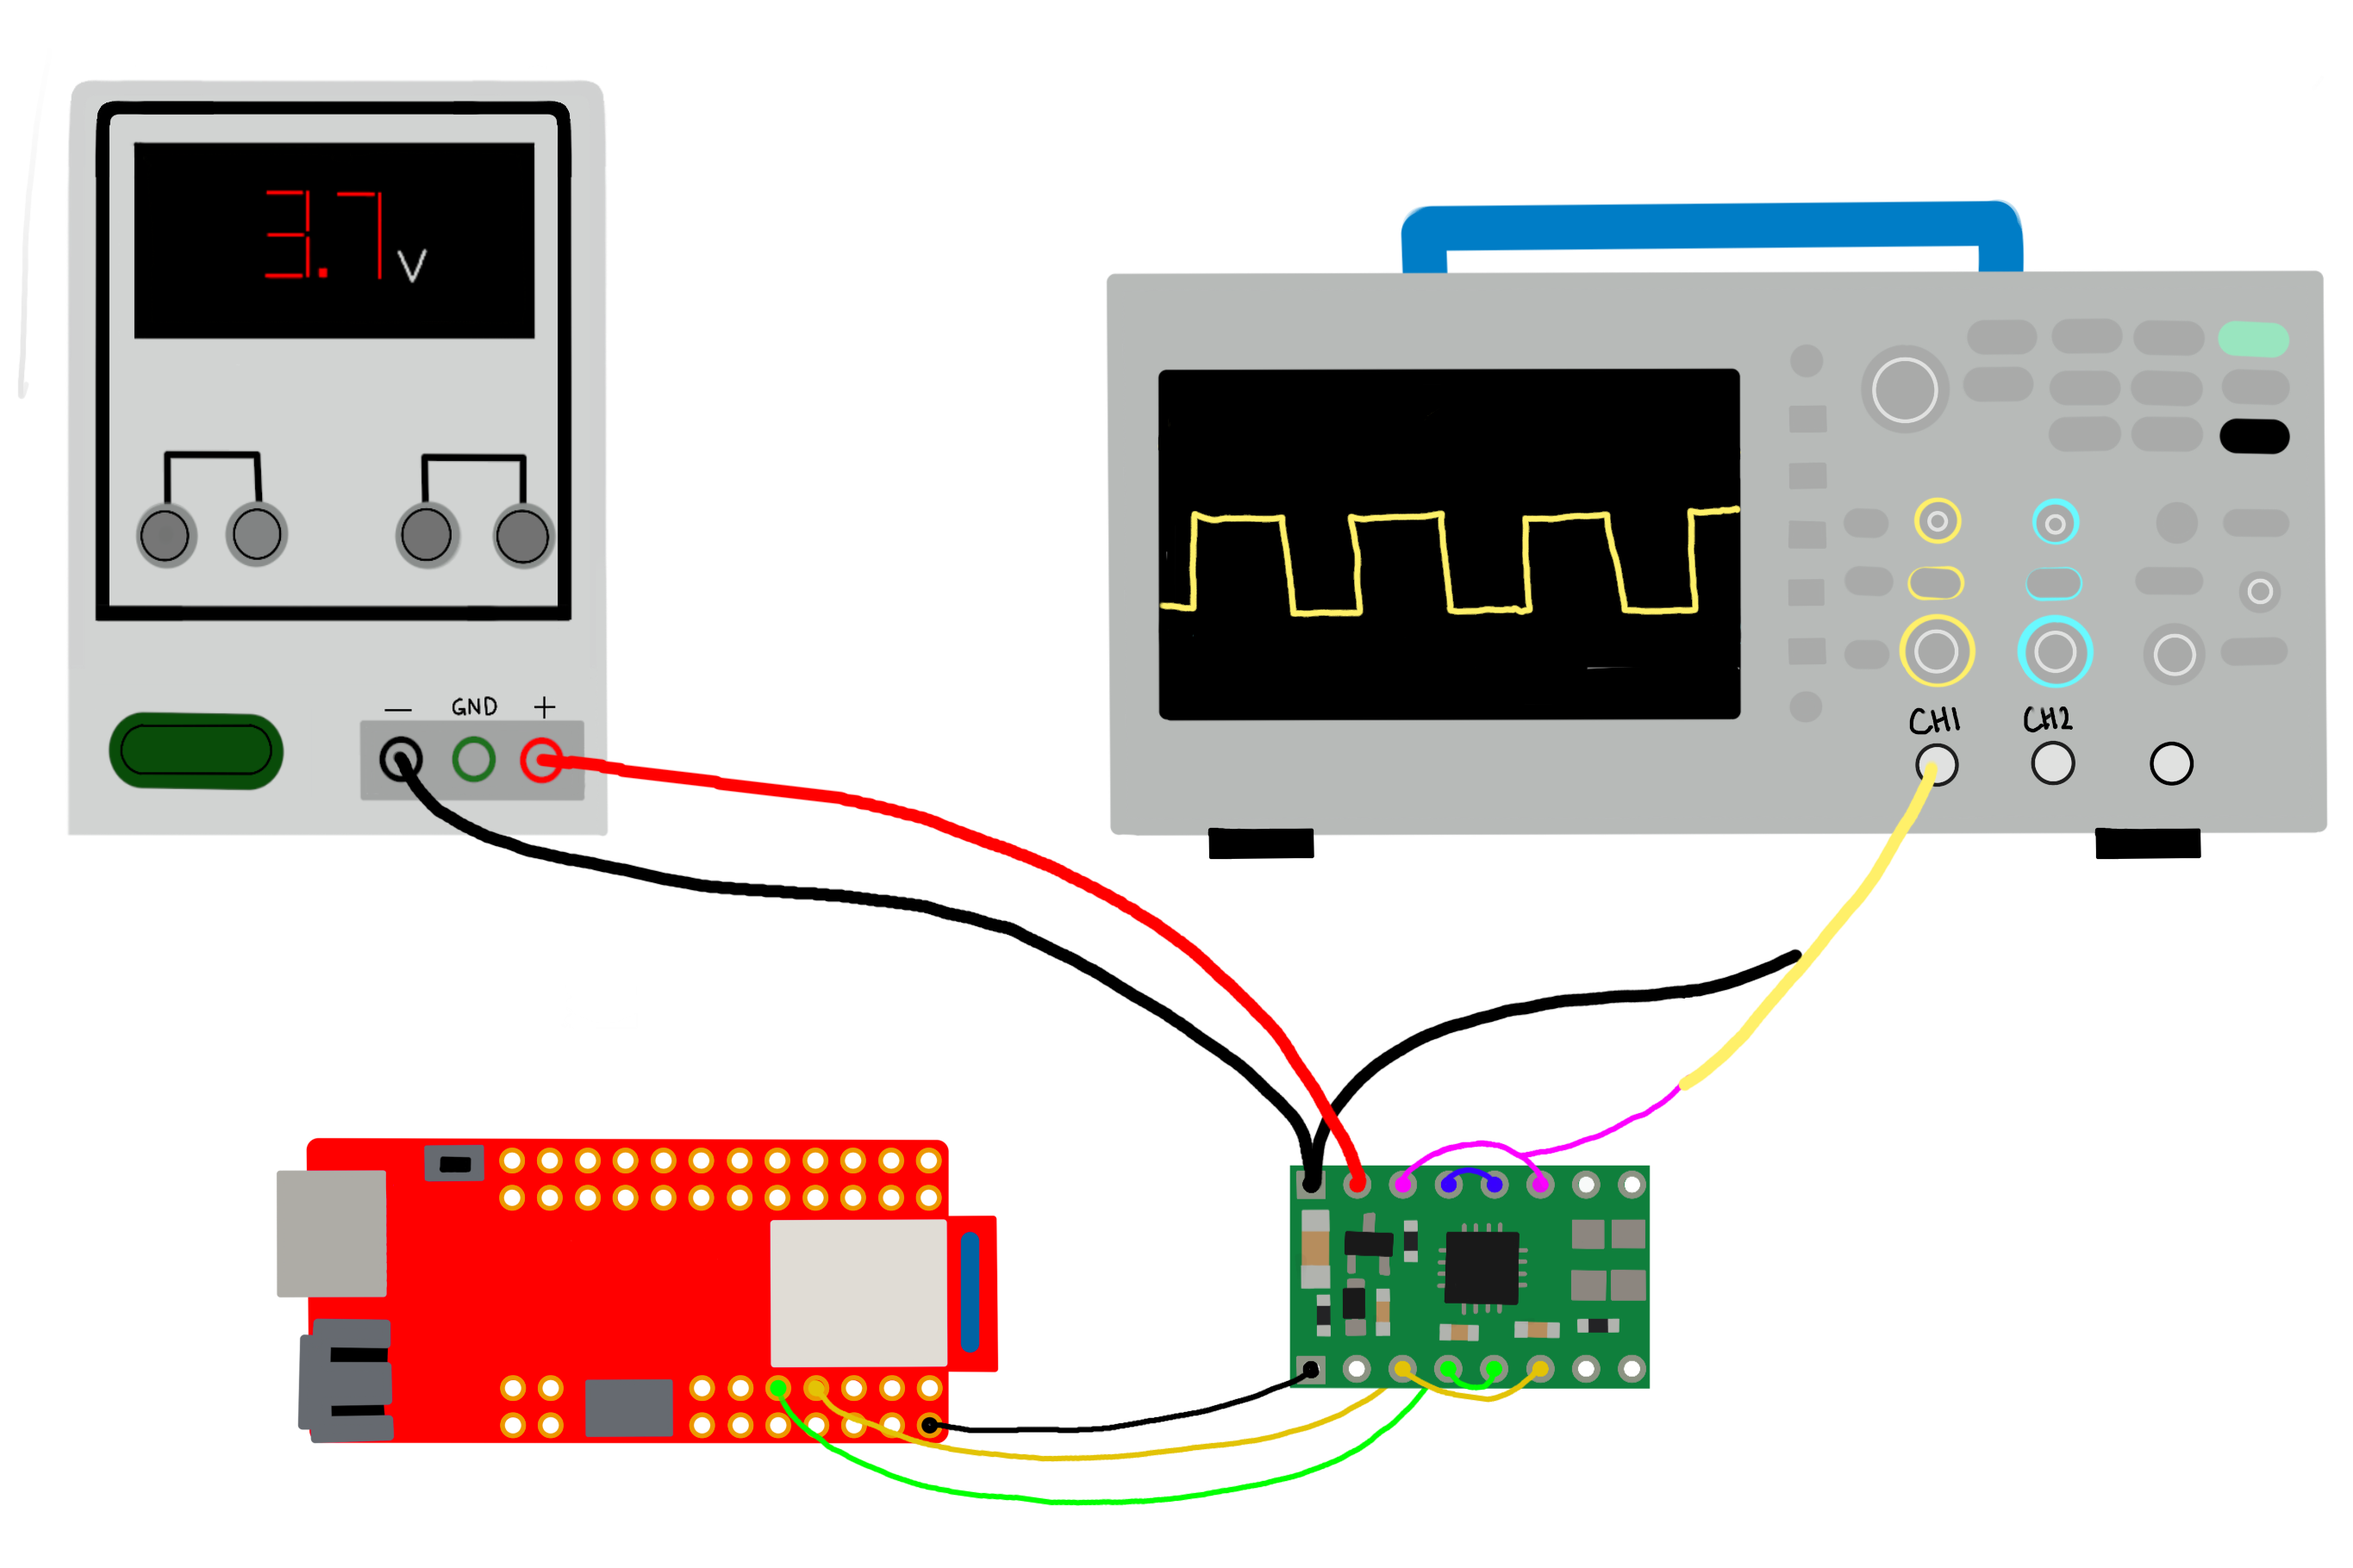
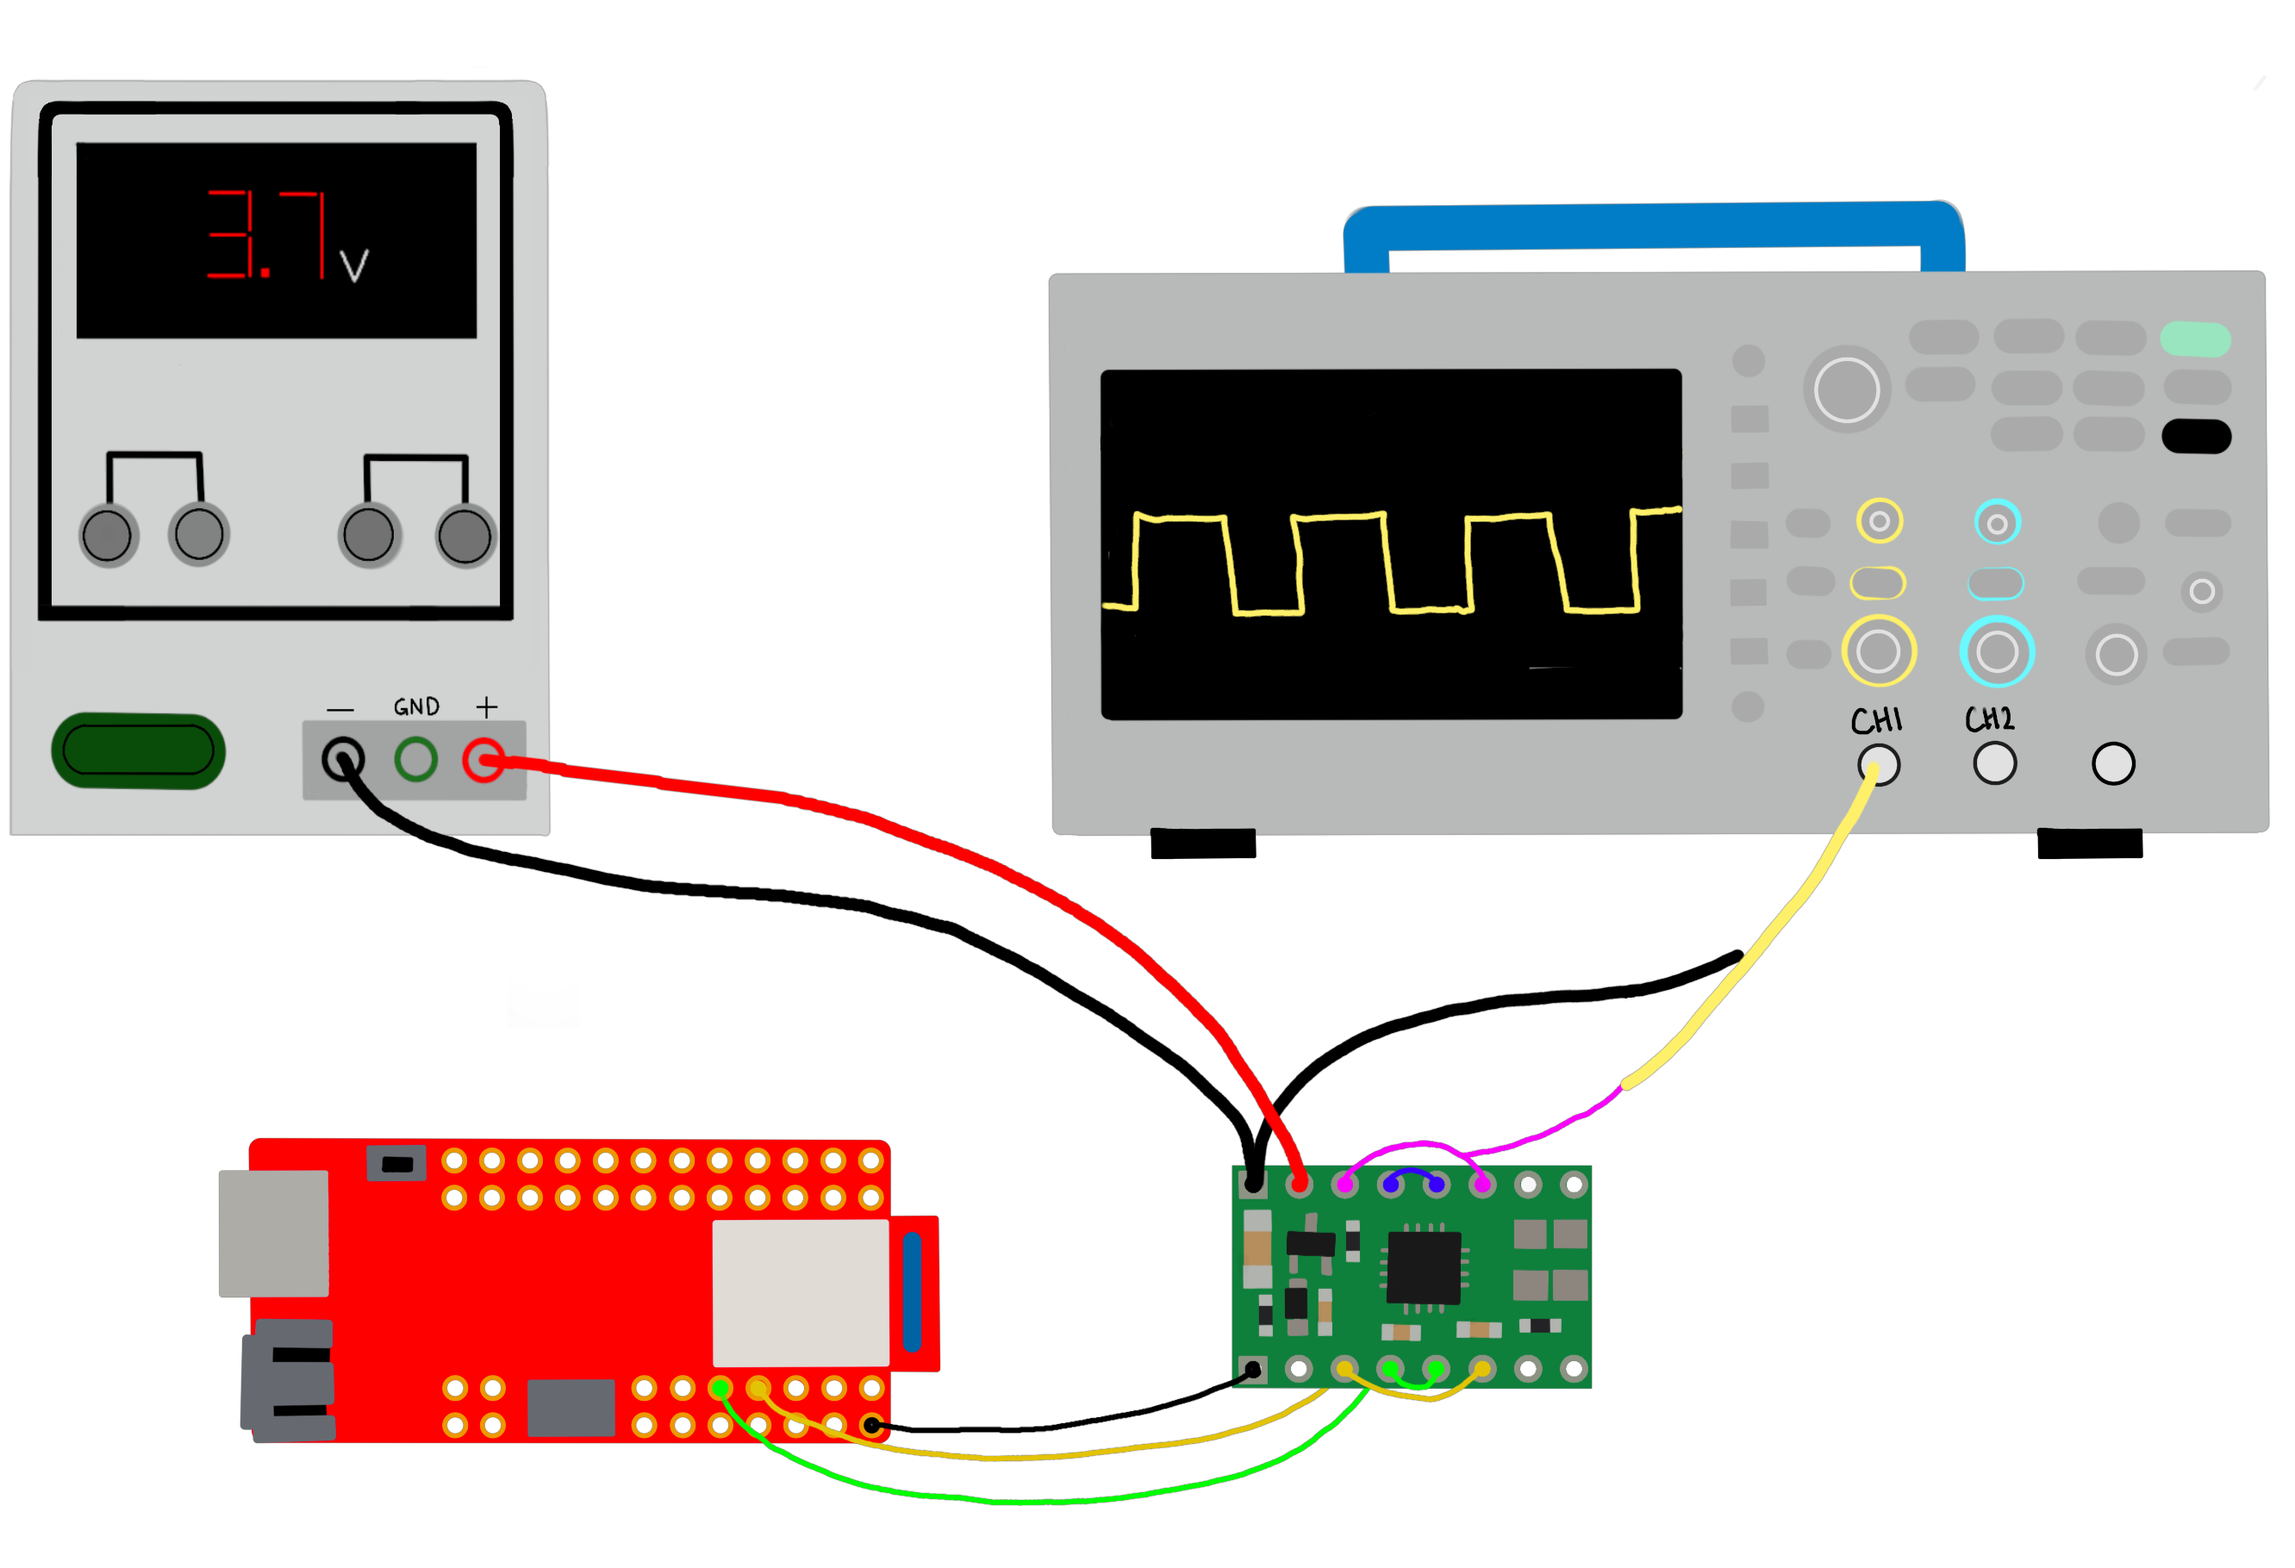
lab5 media

diff --git a/Lab5.html b/Lab5.html
@@ -90,31 +90,61 @@
         <div class="resume-section-content">
             <h2 class="mb-2">Lab 5 <span class="text-primary">Motors and Open Loop Control</span></h2>
             <p class="mb-5">
-                The goal of this lab was to setup the motor drivers, install everything on the car, and demonstrate open loop control. 
+                The goal of this lab was to setup the motor drivers, install everything on the car, and demonstrate open
+                loop control.
             </p>
 
 
             <div class="d-flex flex-column flex-md-row justify-content-between mb-5">
                 <div class="flex-grow-1">
-                    <h3 class="mb-0">Motor Driver Hookup</h3>
-                    <p>Text.</p>
-                    <img src="assets/img/lab5driverhookup.png" alt="" title="" height="400px" />
-                    
+                    <h3 class="mb-2">Prelab</h3>
+                    <h4 class="mb-0">Motor Driver Hookup</h4>
+                    <p>
+                        I read through the datasheet for the motor driver and understood the pin functions. The motor
+                        drivers have two inputs and outputs which will be coupled together in order to deliver enough
+                        current to the motor. So, a single dual controller will power a single motor.
+                    </p>
+                    <p>
+                        Knowing that all the GPIO pins on the Artemis are PWM capable, I decided to use pins A2, A3, 4,
+                        and A5 as the inputs to the drivers as they are on the same side as the pin I soldered for the
+                        TOF sensor which would save space when installing it in the car. I soldered as shown in the
+                        diagram using stranded wire and heat shrink. I also twisted cables to reduce EMI. I used the car
+                        as a rough reference to determine the optimal length of the wires. I decided to solder all
+                        connections so that they were secure as the car moved and bumped around.
+                    </p>
+                    <img class="mb-5" src="assets/img/lab5driverhookup.png" alt="" title="" height="400px" />
+
+                    <h4 class="mb-0">Battery</h4>
+                    <p>
+                        The motors and the Artemis are powered by different batteries of the same voltage. This serves
+                        to reduce noise from the motors affecting the sensors. Additionally, the current draw of the
+                        motors is much higher than the Artemis so it is best practice to separate the power paths.
+                    </p>
+
                 </div>
             </div>
 
-            <div class="d-flex flex-column flex-md-row justify-content-between mb-5">
-                <div class="flex-grow-1">
-                    <h3 class="mb-0">Battery</h3>
-                    <p>Text.</p>
-                </div>
-            </div>
 
             <div class="d-flex flex-column flex-md-row justify-content-between mb-5">
                 <div class="flex-grow-1">
                     <h3 class="mb-0">PWM Signal</h3>
-                    <p>Text.</p>
+                    <p>
+                        I then connected the driver to the power supply and oscilloscope as shown in order to monitor
+                        the PWM output from the motor driver.
+                    </p>
                     <img src="assets/img/lab5scopehookup.png" alt="" title="" height="400px" />
+                    <p>
+                        I set the power supply to 3.7V as that is within the drivers input range and is the nominal
+                        voltage of the battery we will be using. I set the current limit to 3A as that is slightly
+                        higher
+                        than the nominal output voltage but under the peak.
+                    </p>
+                    <p>
+                        I then used an idea from Robby Huang’s (2022) page to test every PWM output from 0-255. I
+                        uploaded this code to the Artemis and observed the scope output. I repeated this for both output
+                        channels.
+                    </p>
+                    <script src="https://gist.github.com/bhadrab/8718f5c9dea16f1c64d324bd8527a4ea.js"></script>
                     <video width="500" controls>
                         <source src="assets/img/lab5scope.mp4" type=video/mp4>
                     </video>
@@ -124,17 +154,35 @@
             <div class="d-flex flex-column flex-md-row justify-content-between mb-5">
                 <div class="flex-grow-1">
                     <h3 class="mb-0">Running the Motor</h3>
-                    <p>Text.</p>
-                    <video height="400" controls>
+                    <p>
+                        I then took the top shell off the car and got rid of the existing control board. I soldered the
+                        drivers output channels to one of the motors. Keeping it powered by the external power supply, I
+                        spun the wheels in both directions.
+                    </p>
+
+                    <script src="https://gist.github.com/bhadrab/a9d08c6b6a757fd3b52e24ef03b9b534.js"></script>
+                    <video class="mb-3" height="400" controls>
                         <source src="assets/img/lab5bothdirections.mp4" type=video/mp4>
                     </video>
+                    <p>
+                        I replaced the power supply with the 850 mAh battery and verified the behavior. I then repeated
+                        the above steps with the second motor driver. At this point, all four wheels were spinning and I
+                        had a moving car.
+                    </p>
                 </div>
             </div>
 
             <div class="d-flex flex-column flex-md-row justify-content-between mb-5">
                 <div class="flex-grow-1">
                     <h3 class="mb-0">Install</h3>
-                    <p>Text.</p>
+                    <p>
+                        The artemis along with the 650mAh battery only fit in the back cavity so they went there along
+                        with the IMU. I velcroed these three together to have a strong but temporary bind to make
+                        repairs easier. I had already decided that the TOF’s should be in the front. I attached them
+                        with some double sided tape. I then cut a hole in the battery compartment and put the motor
+                        drivers on the other side as that space was not being utilized much. I twisted all wires, and
+                        cut and resoldered any that were too long to reduce EMI.
+                    </p>
                     <img src="assets/img/lab5installfront.png" alt="" title="" height="400px" />
                     <img src="assets/img/lab5installback.png" alt="" title="" height="400px" />
                 </div>
@@ -143,17 +191,33 @@
             <div class="d-flex flex-column flex-md-row justify-content-between mb-5">
                 <div class="flex-grow-1">
                     <h3 class="mb-0">Lower Limit PWM</h3>
-                    <p>Text.</p>
+                    <p>
+                        If starting from rest, I found that the lowest PWM value for which the Robot moves was 40 on
+                        both sides. But, if it is already moving with a higher PWM, the robot is able to move at PWM
+                        30.I tested this by steadily increasing the value from 0 and observing when movement began.
+                    </p>
                 </div>
             </div>
 
             <div class="d-flex flex-column flex-md-row justify-content-between mb-5">
                 <div class="flex-grow-1">
                     <h3 class="mb-0">Open Loop Control</h3>
-                    <p>Text.</p>
-                    <video height="450" controls>
+                    <p>
+                        My first goal was to see if the two motors were spinning at the same rate by seeing how straight
+                        the Robot was going. I set up a tape measure and noticed that the Robot moved in a fairly
+                        straight line for 6ft (as shown in the video). I ran it a couple of times and it was not
+                        consistently veering off to one particular side, so I decided that a calibration factor is not
+                        necessary and the rates of the two motors are similar enough.
+                    </p>
+                    <script src="https://gist.github.com/bhadrab/54f11216b449be834865437fb7fca3da.js"></script>
+                    <video class="mb-5" height="450" controls>
                         <source src="assets/img/lab5line.mp4" type=video/mp4>
                     </video>
+
+                    <p>
+                        I then added some more control in the form of some turns. 
+                    </p>
+                    <script src="https://gist.github.com/bhadrab/7852acb59a1b928032d42a6401f83b5b.js"></script>
                     <video height="450" controls>
                         <source src="assets/img/lab5turns.mp4" type=video/mp4>
                     </video>
